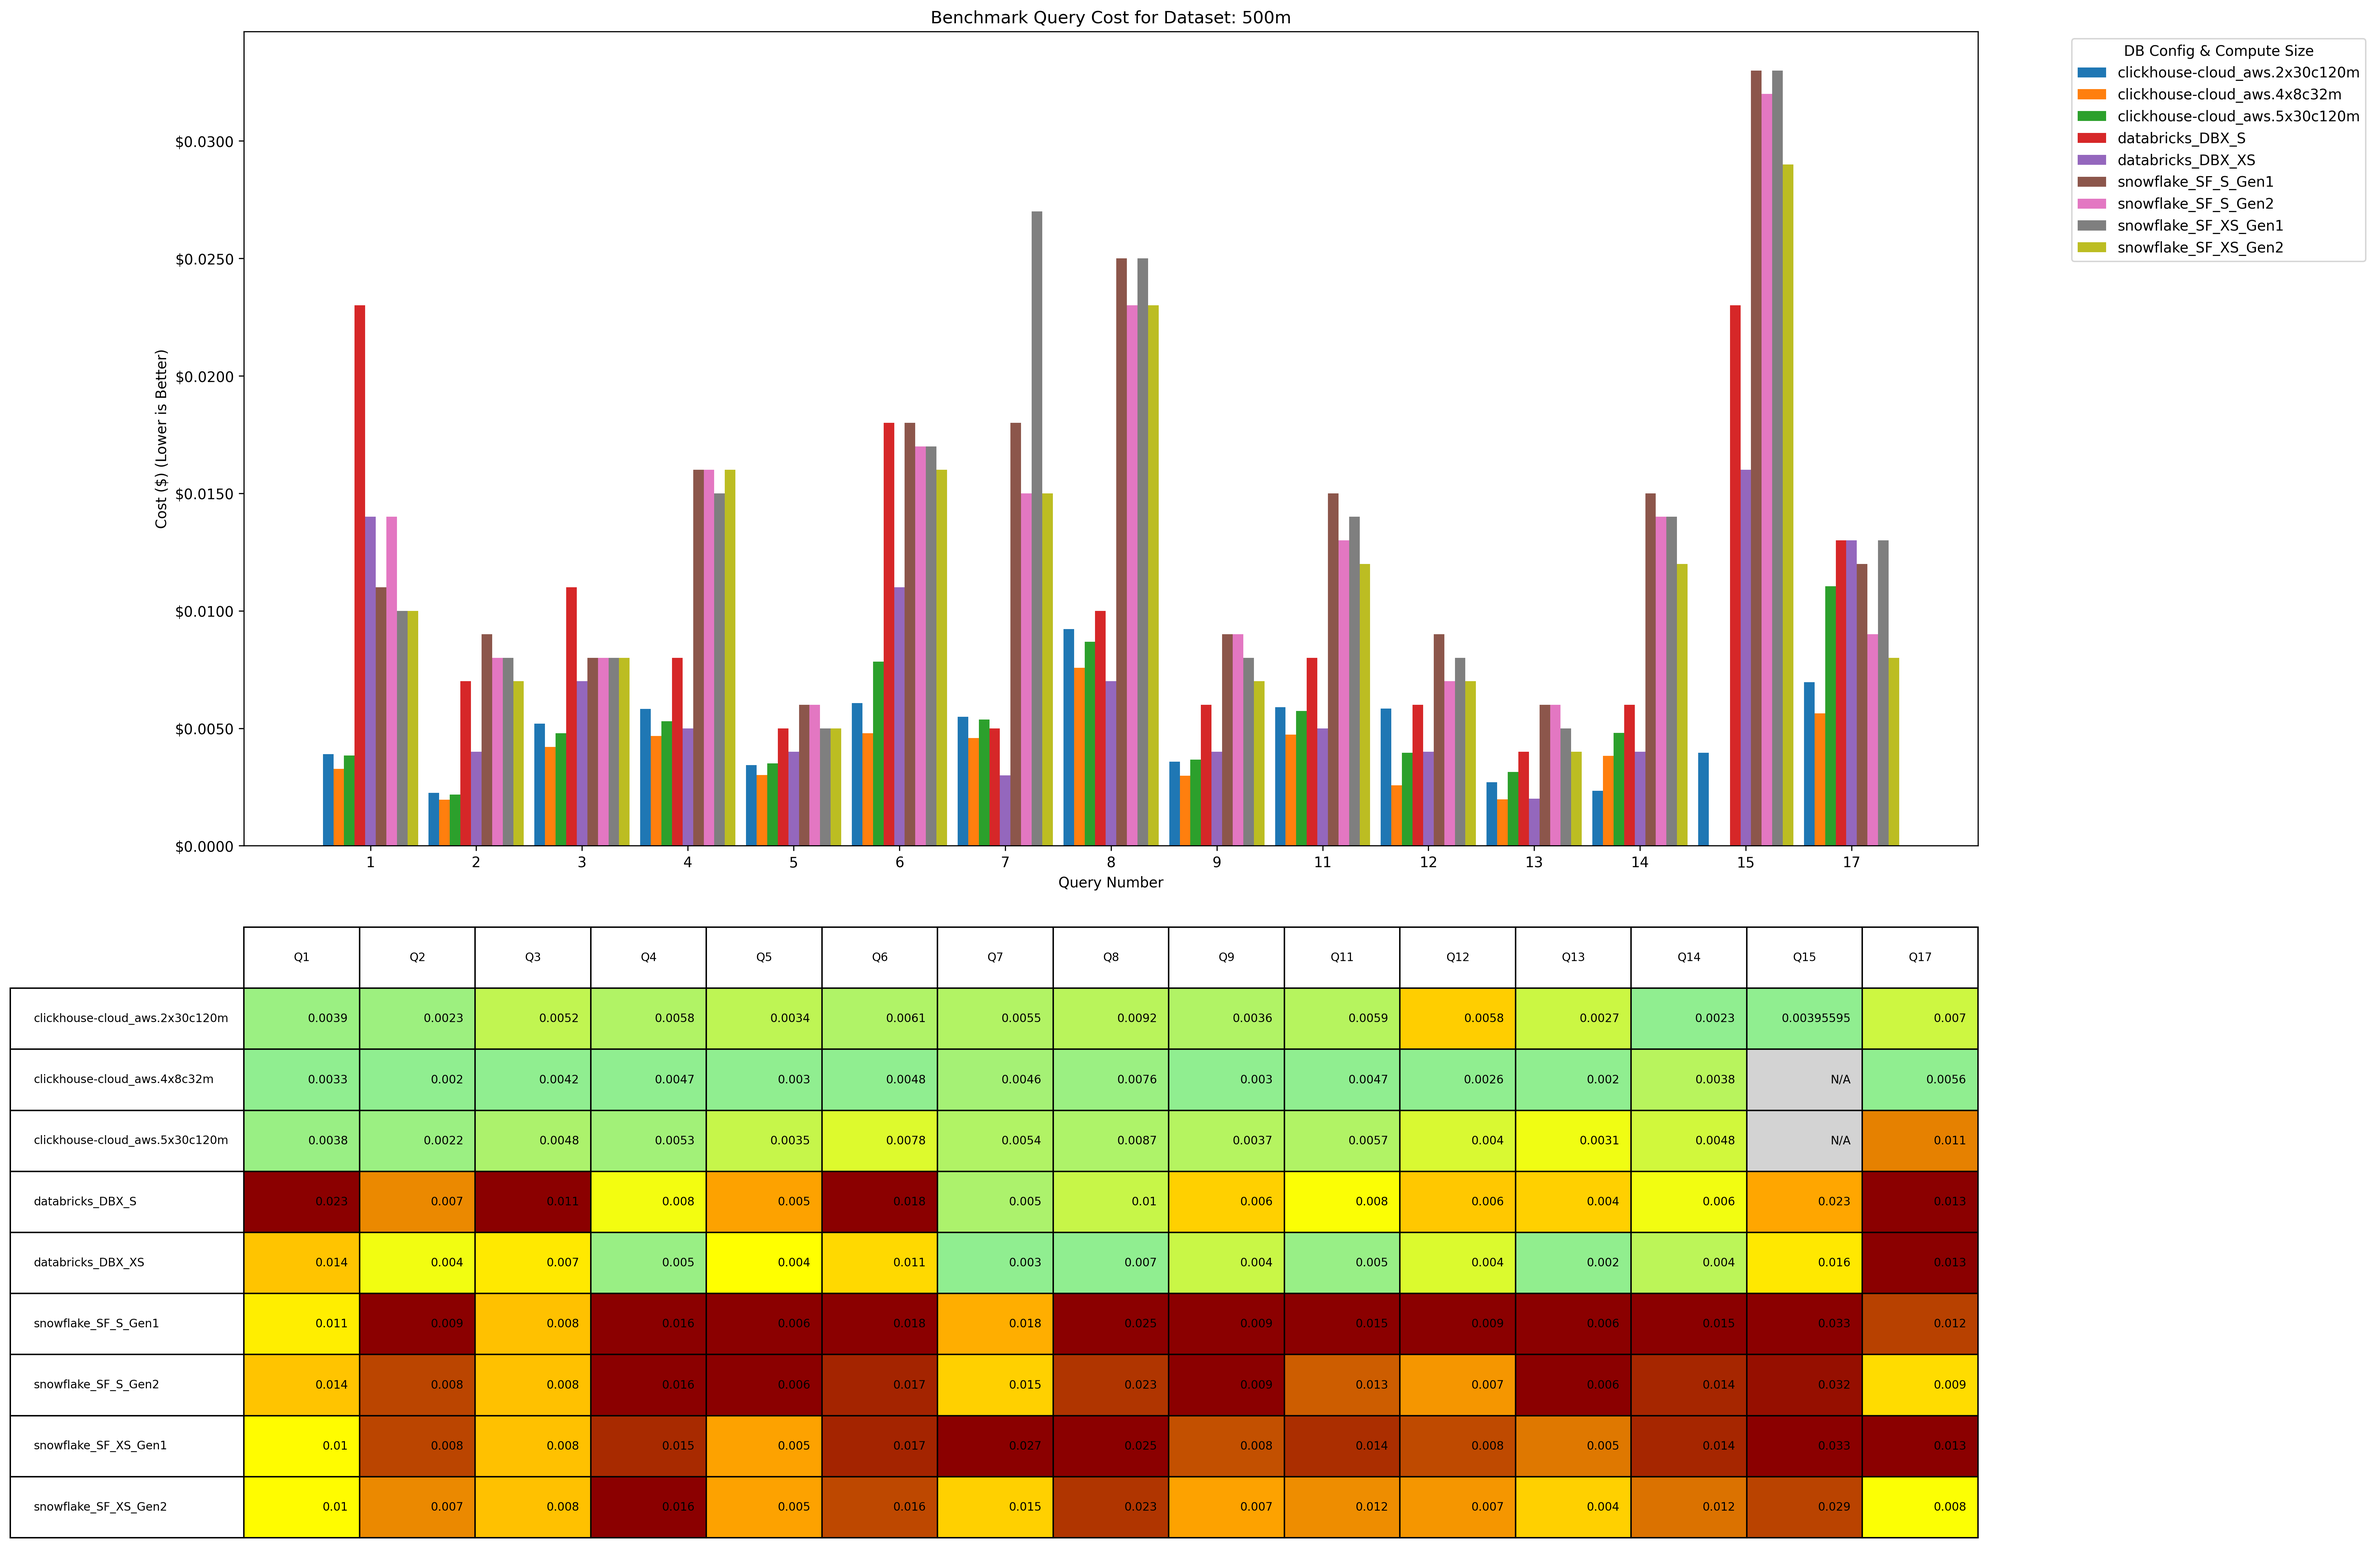
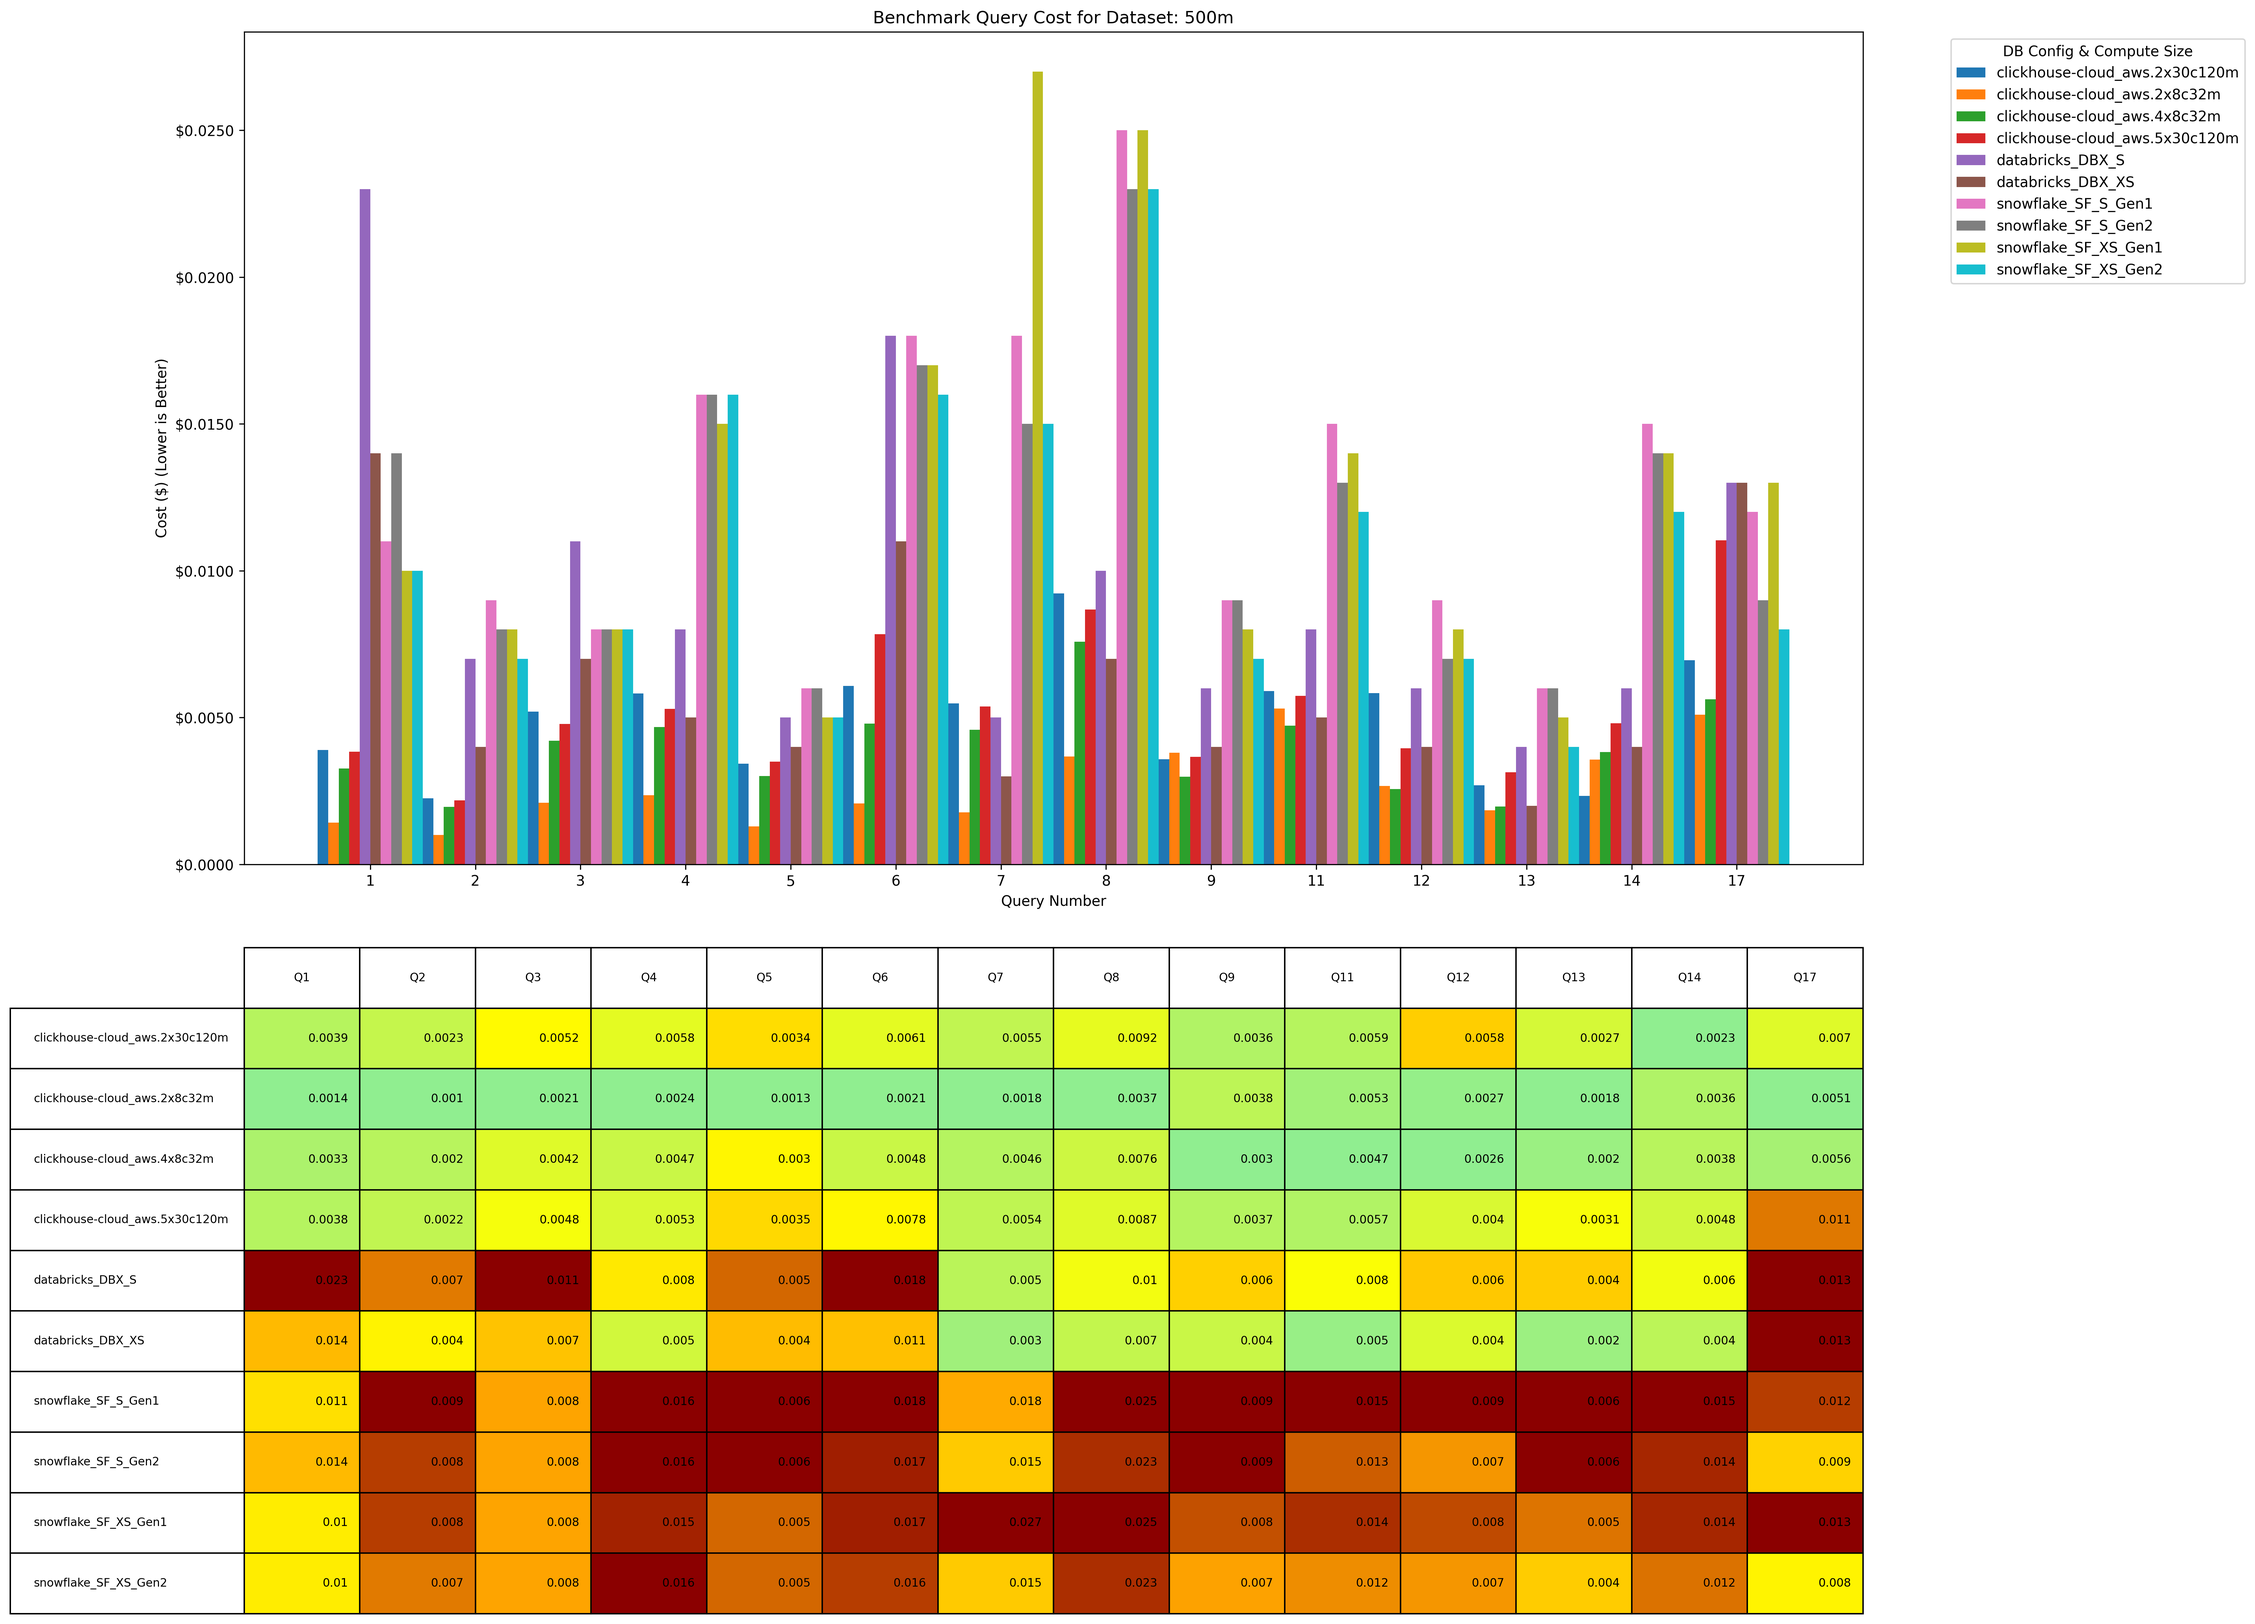
temporarily exclude q15

diff --git a/results_vis/main.py b/results_vis/main.py
@@ -357,7 +357,7 @@ def main():
     df_master['query_num'] = df_master['query_num'].astype(int)
     df_master['config_compute'] = df_master['db_config'] + "_" + df_master['compute_size']
 
-    queries_to_exclude = [10, 16]
+    queries_to_exclude = [10, 15, 16] # Temporarily excluding Query 15 as well
     print(f"\nExcluding queries: {queries_to_exclude} from the results.")
     df_master = df_master[~df_master['query_num'].isin(queries_to_exclude)]
 
